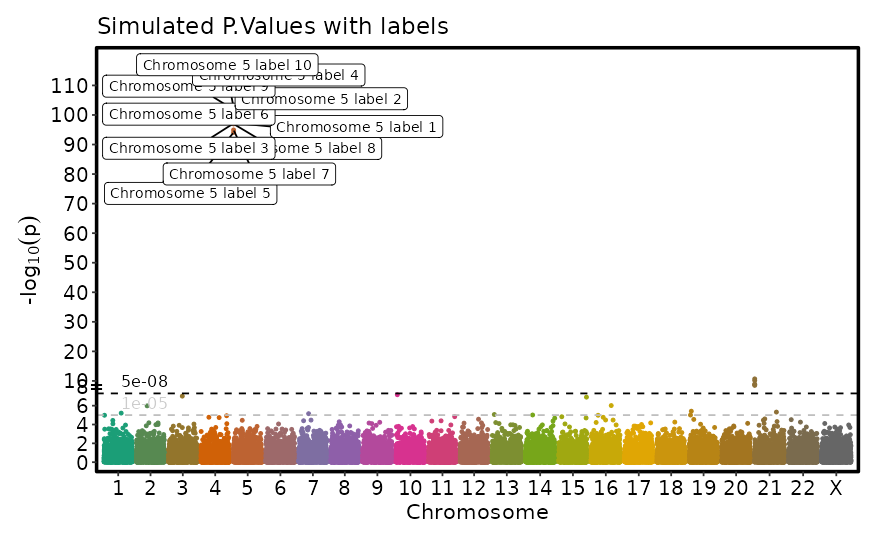
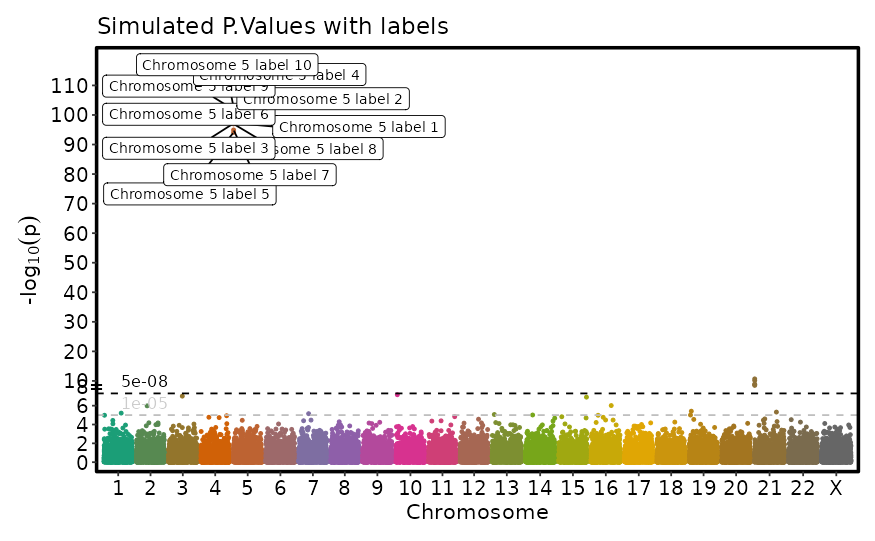
Deploying to gh-pages from @ pwwang/plotthis@25573ce062637547ea47d433c10a104f93634dff 🚀

Changed region(s): [[0.1234, 0.1183, 0.5246, 0.3845]]

diff --git a/reference/LinkedHeatmap.html b/reference/LinkedHeatmap.html
@@ -131,6 +131,7 @@ cognate receptor(s).</p>
 <span>  show_column_names <span class="op">=</span> <span class="cn">NULL</span>,</span>
 <span>  border <span class="op">=</span> <span class="cn">TRUE</span>,</span>
 <span>  title <span class="op">=</span> <span class="cn">NULL</span>,</span>
+<span>  title_gp <span class="op">=</span> <span class="cn">NULL</span>,</span>
 <span>  column_title <span class="op">=</span> <span class="cn">NULL</span>,</span>
 <span>  row_title <span class="op">=</span> <span class="cn">NULL</span>,</span>
 <span>  na_col <span class="op">=</span> <span class="st">"grey85"</span>,</span>
@@ -481,7 +482,16 @@ fallback for <code>left_cluster_rows</code> / <code>right_cluster_rows</code>.</
 
 <dt id="arg-title">title<a class="anchor" aria-label="anchor" href="#arg-title"></a></dt>
 <dd><p>A character string for the overall plot title.  A function
-can be used to generate a dynamic title from the default.</p></dd>
+can be used to generate a dynamic title from the default.
+Note that, <code>left_title</code> and <code>right_title</code> are used to set the title for each heatmap,
+and <code>title</code> is used to set the overall title for the combined plot.</p></dd>
+
+
+<dt id="arg-title-gp">title_gp<a class="anchor" aria-label="anchor" href="#arg-title-gp"></a></dt>
+<dd><p>A <code><a href="https://rdrr.io/r/grid/gpar.html" class="external-link">gpar</a></code> object controlling the graphical
+parameters of the overall plot title (font size, font face, color, etc.).
+Only used when <code>title</code> is not <code>NULL</code>.
+Default is <code>gpar(fontsize = 14, fontface = "bold")</code>.</p></dd>
 
 
 <dt id="arg-column-title-row-title">column_title, row_title<a class="anchor" aria-label="anchor" href="#arg-column-title-row-title"></a></dt>

diff --git a/reference/LinkedHeatmapAtomic.html b/reference/LinkedHeatmapAtomic.html
@@ -117,6 +117,7 @@ everything into a composite <code>grid</code> layout.</p>
 <span>  show_column_names <span class="op">=</span> <span class="cn">NULL</span>,</span>
 <span>  border <span class="op">=</span> <span class="cn">TRUE</span>,</span>
 <span>  title <span class="op">=</span> <span class="cn">NULL</span>,</span>
+<span>  title_gp <span class="op">=</span> <span class="cn">NULL</span>,</span>
 <span>  column_title <span class="op">=</span> <span class="cn">NULL</span>,</span>
 <span>  row_title <span class="op">=</span> <span class="cn">NULL</span>,</span>
 <span>  na_col <span class="op">=</span> <span class="st">"grey85"</span>,</span>
@@ -390,7 +391,16 @@ lets <code>HeatmapAtomic</code> decide based on
 
 <dt id="arg-title">title<a class="anchor" aria-label="anchor" href="#arg-title"></a></dt>
 <dd><p>A character string for the overall plot title.  A function
-can be used to generate a dynamic title from the default.</p></dd>
+can be used to generate a dynamic title from the default.
+Note that, <code>left_title</code> and <code>right_title</code> are used to set the title for each heatmap,
+and <code>title</code> is used to set the overall title for the combined plot.</p></dd>
+
+
+<dt id="arg-title-gp">title_gp<a class="anchor" aria-label="anchor" href="#arg-title-gp"></a></dt>
+<dd><p>A <code><a href="https://rdrr.io/r/grid/gpar.html" class="external-link">gpar</a></code> object controlling the graphical
+parameters of the overall plot title (font size, font face, color, etc.).
+Only used when <code>title</code> is not <code>NULL</code>.
+Default is <code>gpar(fontsize = 14, fontface = "bold")</code>.</p></dd>
 
 
 <dt id="arg-column-title-row-title">column_title, row_title<a class="anchor" aria-label="anchor" href="#arg-column-title-row-title"></a></dt>

diff --git a/news/index.html b/news/index.html
@@ -51,6 +51,7 @@
 <li>fix(heatmap): remove return_grob parameter and wrap heatmap with patchwork</li>
 <li>fix(radarplot): correct assignment of split_by variable and update combine_plots call</li>
 <li>fix(combine_plots): refine data handling in combine_plots function for layer-specific data integrity</li>
+<li>fix(DotPlot): add warning for single unique value in ‘fill_by’ after processing</li>
 <li>fix: include split_by in keep_na and keep_empty checks for FeatureDimPlot function</li>
 <li>style: use air to format all source files</li>
 <li>chore: add .codegraph to .gitignore to exclude codegraph files from version control</li>

diff --git a/reference/LinkedHeatmap.md b/reference/LinkedHeatmap.md
@@ -80,6 +80,7 @@ LinkedHeatmap(
   show_column_names = NULL,
   border = TRUE,
   title = NULL,
+  title_gp = NULL,
   column_title = NULL,
   row_title = NULL,
   na_col = "grey85",
@@ -412,7 +413,16 @@ LinkedHeatmap(
 - title:
 
   A character string for the overall plot title. A function can be used
-  to generate a dynamic title from the default.
+  to generate a dynamic title from the default. Note that, `left_title`
+  and `right_title` are used to set the title for each heatmap, and
+  `title` is used to set the overall title for the combined plot.
+
+- title_gp:
+
+  A [`gpar`](https://rdrr.io/r/grid/gpar.html) object controlling the
+  graphical parameters of the overall plot title (font size, font face,
+  color, etc.). Only used when `title` is not `NULL`. Default is
+  `gpar(fontsize = 14, fontface = "bold")`.
 
 - column_title, row_title:
 

diff --git a/reference/LinkedHeatmapAtomic.md b/reference/LinkedHeatmapAtomic.md
@@ -69,6 +69,7 @@ LinkedHeatmapAtomic(
   show_column_names = NULL,
   border = TRUE,
   title = NULL,
+  title_gp = NULL,
   column_title = NULL,
   row_title = NULL,
   na_col = "grey85",
@@ -330,7 +331,16 @@ LinkedHeatmapAtomic(
 - title:
 
   A character string for the overall plot title. A function can be used
-  to generate a dynamic title from the default.
+  to generate a dynamic title from the default. Note that, `left_title`
+  and `right_title` are used to set the title for each heatmap, and
+  `title` is used to set the overall title for the combined plot.
+
+- title_gp:
+
+  A [`gpar`](https://rdrr.io/r/grid/gpar.html) object controlling the
+  graphical parameters of the overall plot title (font size, font face,
+  color, etc.). Only used when `title` is not `NULL`. Default is
+  `gpar(fontsize = 14, fontface = "bold")`.
 
 - column_title, row_title:
 

diff --git a/news/index.md b/news/index.md
@@ -28,6 +28,8 @@
   combine_plots call
 - fix(combine_plots): refine data handling in combine_plots function for
   layer-specific data integrity
+- fix(DotPlot): add warning for single unique value in ‘fill_by’ after
+  processing
 - fix: include split_by in keep_na and keep_empty checks for
   FeatureDimPlot function
 - style: use air to format all source files